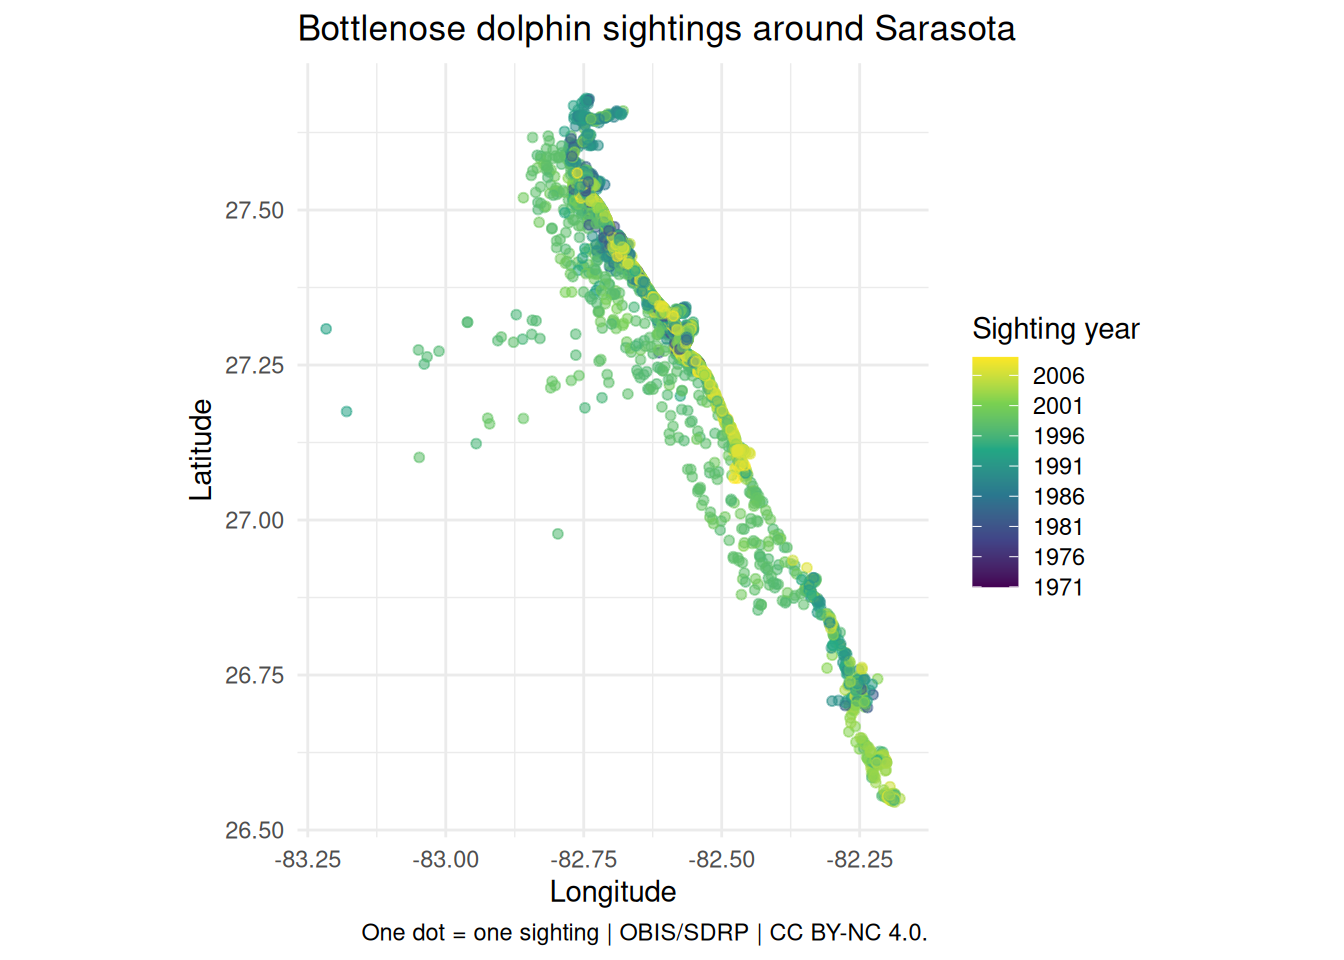
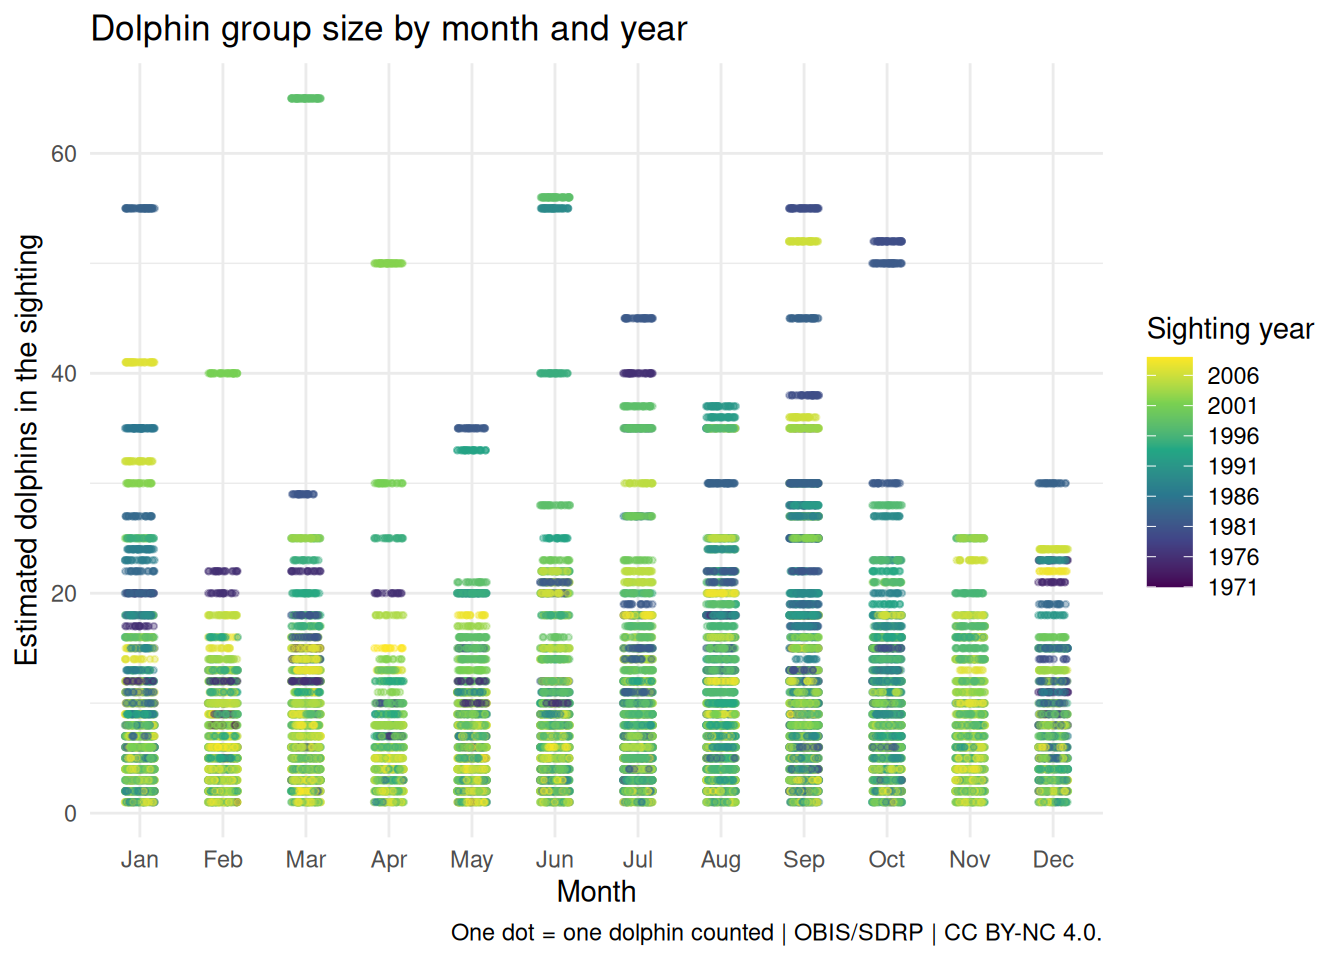
Built site for gh-pages

diff --git a/dolphin-presence.html b/dolphin-presence.html
@@ -7,7 +7,7 @@
 <meta name="viewport" content="width=device-width, initial-scale=1.0, user-scalable=yes">
 
 
-<title>Sarasota bottlenose dolphin sightings, 1971–2009 – dolphins</title>
+<title>Dolphin group size by month and year, 1971–2009 – dolphins</title>
 <style>
 /* Default styles provided by pandoc.
 ** See https://pandoc.org/MANUAL.html#variables-for-html for config info.
@@ -161,7 +161,7 @@ pre > code.sourceCode > span > a:first-child::before { text-decoration: underlin
 
 <header id="title-block-header" class="quarto-title-block default">
 <div class="quarto-title">
-<h1 class="title">Sarasota bottlenose dolphin sightings, 1971–2009</h1>
+<h1 class="title">Dolphin group size by month and year, 1971–2009</h1>
 </div>
 
 
@@ -178,7 +178,7 @@ pre > code.sourceCode > span > a:first-child::before { text-decoration: underlin
 </header>
 
 
-<p>Each dot is one recorded bottlenose dolphin sighting. The color shows the year, so the scatter plot compares where sightings were recorded over time. Dense areas show where sightings were reported, not necessarily where dolphins were most abundant; survey effort may vary by place and year.</p>
+<p>Each dot represents one dolphin counted in a recorded sighting. The x-axis shows the month, the y-axis shows the estimated number of dolphins in that dolphin’s sighting, and the color shows the year. The dots are not individually identified dolphins; survey effort may vary by month and year.</p>
 <div class="cell">
 <div class="code-copy-outer-scaffold"><div class="sourceCode cell-code" id="cb1"><pre class="sourceCode r code-with-copy"><code class="sourceCode r"><span id="cb1-1"><a href="#cb1-1" aria-hidden="true" tabindex="-1"></a><span class="fu">library</span>(tidyverse)</span></code></pre></div><button title="Copy to Clipboard" class="code-copy-button"><i class="bi"></i></button></div>
 <div class="cell-output cell-output-stderr">
@@ -221,45 +221,55 @@ pre > code.sourceCode > span > a:first-child::before { text-decoration: underlin
 <span id="cb3-26"><a href="#cb3-26" aria-hidden="true" tabindex="-1"></a></span>
 <span id="cb3-27"><a href="#cb3-27" aria-hidden="true" tabindex="-1"></a>sightings <span class="ot">&lt;-</span> purrr<span class="sc">::</span><span class="fu">map_dfr</span>(obis_data<span class="sc">$</span>results, \(record) {</span>
 <span id="cb3-28"><a href="#cb3-28" aria-hidden="true" tabindex="-1"></a>  <span class="cf">if</span> (<span class="fu">is.null</span>(record<span class="sc">$</span>eventDate) <span class="sc">||</span></span>
-<span id="cb3-29"><a href="#cb3-29" aria-hidden="true" tabindex="-1"></a>      <span class="fu">is.null</span>(record<span class="sc">$</span>decimalLongitude) <span class="sc">||</span></span>
-<span id="cb3-30"><a href="#cb3-30" aria-hidden="true" tabindex="-1"></a>      <span class="fu">is.null</span>(record<span class="sc">$</span>decimalLatitude)) {</span>
-<span id="cb3-31"><a href="#cb3-31" aria-hidden="true" tabindex="-1"></a>    <span class="fu">stop</span>(<span class="st">"An OBIS record is missing its date or coordinates."</span>)</span>
-<span id="cb3-32"><a href="#cb3-32" aria-hidden="true" tabindex="-1"></a>  }</span>
-<span id="cb3-33"><a href="#cb3-33" aria-hidden="true" tabindex="-1"></a></span>
-<span id="cb3-34"><a href="#cb3-34" aria-hidden="true" tabindex="-1"></a>  <span class="fu">tibble</span>(</span>
-<span id="cb3-35"><a href="#cb3-35" aria-hidden="true" tabindex="-1"></a>    <span class="at">sighting_date =</span> <span class="fu">as.POSIXct</span>(</span>
-<span id="cb3-36"><a href="#cb3-36" aria-hidden="true" tabindex="-1"></a>      record<span class="sc">$</span>eventDate,</span>
-<span id="cb3-37"><a href="#cb3-37" aria-hidden="true" tabindex="-1"></a>      <span class="at">format =</span> <span class="st">"%Y-%m-%dT%H:%M:%OS"</span>,</span>
-<span id="cb3-38"><a href="#cb3-38" aria-hidden="true" tabindex="-1"></a>      <span class="at">tz =</span> <span class="st">"UTC"</span></span>
-<span id="cb3-39"><a href="#cb3-39" aria-hidden="true" tabindex="-1"></a>    ),</span>
-<span id="cb3-40"><a href="#cb3-40" aria-hidden="true" tabindex="-1"></a>    <span class="at">longitude =</span> <span class="fu">as.numeric</span>(record<span class="sc">$</span>decimalLongitude),</span>
-<span id="cb3-41"><a href="#cb3-41" aria-hidden="true" tabindex="-1"></a>    <span class="at">latitude =</span> <span class="fu">as.numeric</span>(record<span class="sc">$</span>decimalLatitude)</span>
-<span id="cb3-42"><a href="#cb3-42" aria-hidden="true" tabindex="-1"></a>  )</span>
-<span id="cb3-43"><a href="#cb3-43" aria-hidden="true" tabindex="-1"></a>})</span>
-<span id="cb3-44"><a href="#cb3-44" aria-hidden="true" tabindex="-1"></a></span>
-<span id="cb3-45"><a href="#cb3-45" aria-hidden="true" tabindex="-1"></a><span class="cf">if</span> (<span class="fu">anyNA</span>(sightings)) {</span>
-<span id="cb3-46"><a href="#cb3-46" aria-hidden="true" tabindex="-1"></a>  <span class="fu">stop</span>(<span class="st">"An OBIS sighting has an invalid date or coordinate."</span>)</span>
-<span id="cb3-47"><a href="#cb3-47" aria-hidden="true" tabindex="-1"></a>}</span>
-<span id="cb3-48"><a href="#cb3-48" aria-hidden="true" tabindex="-1"></a></span>
-<span id="cb3-49"><a href="#cb3-49" aria-hidden="true" tabindex="-1"></a>sightings <span class="ot">&lt;-</span> sightings <span class="sc">|&gt;</span></span>
-<span id="cb3-50"><a href="#cb3-50" aria-hidden="true" tabindex="-1"></a>  <span class="fu">mutate</span>(<span class="at">sighting_year =</span> <span class="fu">as.integer</span>(<span class="fu">format</span>(sighting_date, <span class="st">"%Y"</span>)))</span></code></pre></div><button title="Copy to Clipboard" class="code-copy-button"><i class="bi"></i></button></div>
+<span id="cb3-29"><a href="#cb3-29" aria-hidden="true" tabindex="-1"></a>      <span class="fu">is.null</span>(record<span class="sc">$</span>individualCount)) {</span>
+<span id="cb3-30"><a href="#cb3-30" aria-hidden="true" tabindex="-1"></a>    <span class="fu">stop</span>(<span class="st">"An OBIS record is missing its date or estimated dolphin count."</span>)</span>
+<span id="cb3-31"><a href="#cb3-31" aria-hidden="true" tabindex="-1"></a>  }</span>
+<span id="cb3-32"><a href="#cb3-32" aria-hidden="true" tabindex="-1"></a></span>
+<span id="cb3-33"><a href="#cb3-33" aria-hidden="true" tabindex="-1"></a>  <span class="fu">tibble</span>(</span>
+<span id="cb3-34"><a href="#cb3-34" aria-hidden="true" tabindex="-1"></a>    <span class="at">sighting_date =</span> <span class="fu">as.POSIXct</span>(</span>
+<span id="cb3-35"><a href="#cb3-35" aria-hidden="true" tabindex="-1"></a>      record<span class="sc">$</span>eventDate,</span>
+<span id="cb3-36"><a href="#cb3-36" aria-hidden="true" tabindex="-1"></a>      <span class="at">format =</span> <span class="st">"%Y-%m-%dT%H:%M:%OS"</span>,</span>
+<span id="cb3-37"><a href="#cb3-37" aria-hidden="true" tabindex="-1"></a>      <span class="at">tz =</span> <span class="st">"UTC"</span></span>
+<span id="cb3-38"><a href="#cb3-38" aria-hidden="true" tabindex="-1"></a>    ),</span>
+<span id="cb3-39"><a href="#cb3-39" aria-hidden="true" tabindex="-1"></a>    <span class="at">dolphins =</span> <span class="fu">as.integer</span>(record<span class="sc">$</span>individualCount)</span>
+<span id="cb3-40"><a href="#cb3-40" aria-hidden="true" tabindex="-1"></a>  )</span>
+<span id="cb3-41"><a href="#cb3-41" aria-hidden="true" tabindex="-1"></a>})</span>
+<span id="cb3-42"><a href="#cb3-42" aria-hidden="true" tabindex="-1"></a></span>
+<span id="cb3-43"><a href="#cb3-43" aria-hidden="true" tabindex="-1"></a><span class="cf">if</span> (<span class="fu">anyNA</span>(sightings)) {</span>
+<span id="cb3-44"><a href="#cb3-44" aria-hidden="true" tabindex="-1"></a>  <span class="fu">stop</span>(<span class="st">"An OBIS sighting has an invalid date or dolphin count."</span>)</span>
+<span id="cb3-45"><a href="#cb3-45" aria-hidden="true" tabindex="-1"></a>}</span>
+<span id="cb3-46"><a href="#cb3-46" aria-hidden="true" tabindex="-1"></a></span>
+<span id="cb3-47"><a href="#cb3-47" aria-hidden="true" tabindex="-1"></a>sightings <span class="ot">&lt;-</span> sightings <span class="sc">|&gt;</span></span>
+<span id="cb3-48"><a href="#cb3-48" aria-hidden="true" tabindex="-1"></a>  <span class="fu">mutate</span>(</span>
+<span id="cb3-49"><a href="#cb3-49" aria-hidden="true" tabindex="-1"></a>    <span class="at">sighting_year =</span> <span class="fu">as.integer</span>(<span class="fu">format</span>(sighting_date, <span class="st">"%Y"</span>)),</span>
+<span id="cb3-50"><a href="#cb3-50" aria-hidden="true" tabindex="-1"></a>    <span class="at">month =</span> <span class="fu">factor</span>(</span>
+<span id="cb3-51"><a href="#cb3-51" aria-hidden="true" tabindex="-1"></a>      <span class="fu">format</span>(sighting_date, <span class="st">"%b"</span>),</span>
+<span id="cb3-52"><a href="#cb3-52" aria-hidden="true" tabindex="-1"></a>      <span class="at">levels =</span> month.abb</span>
+<span id="cb3-53"><a href="#cb3-53" aria-hidden="true" tabindex="-1"></a>    )</span>
+<span id="cb3-54"><a href="#cb3-54" aria-hidden="true" tabindex="-1"></a>  )</span></code></pre></div><button title="Copy to Clipboard" class="code-copy-button"><i class="bi"></i></button></div>
 </div>
-<p>The plot includes <strong>6,391</strong> sightings from <strong>1971</strong> to <strong>2009</strong>.</p>
+<p>The plot includes <strong>6,391</strong> sightings and <strong>30,980</strong> counted dolphins from <strong>1971</strong> to <strong>2009</strong>.</p>
 <div class="cell">
-<div class="code-copy-outer-scaffold"><div class="sourceCode cell-code" id="cb4"><pre class="sourceCode r code-with-copy"><code class="sourceCode r"><span id="cb4-1"><a href="#cb4-1" aria-hidden="true" tabindex="-1"></a><span class="fu">ggplot</span>(</span>
-<span id="cb4-2"><a href="#cb4-2" aria-hidden="true" tabindex="-1"></a>  sightings,</span>
-<span id="cb4-3"><a href="#cb4-3" aria-hidden="true" tabindex="-1"></a>  <span class="fu">aes</span>(<span class="at">x =</span> longitude, <span class="at">y =</span> latitude, <span class="at">color =</span> sighting_year)</span>
-<span id="cb4-4"><a href="#cb4-4" aria-hidden="true" tabindex="-1"></a>) <span class="sc">+</span></span>
-<span id="cb4-5"><a href="#cb4-5" aria-hidden="true" tabindex="-1"></a>  <span class="fu">geom_point</span>(<span class="at">alpha =</span> <span class="fl">0.55</span>, <span class="at">size =</span> <span class="fl">1.4</span>) <span class="sc">+</span></span>
-<span id="cb4-6"><a href="#cb4-6" aria-hidden="true" tabindex="-1"></a>  <span class="fu">coord_quickmap</span>() <span class="sc">+</span></span>
-<span id="cb4-7"><a href="#cb4-7" aria-hidden="true" tabindex="-1"></a>  <span class="fu">scale_color_viridis_c</span>(<span class="at">name =</span> <span class="st">"Sighting year"</span>, <span class="at">breaks =</span> <span class="fu">seq</span>(<span class="dv">1971</span>, <span class="dv">2009</span>, <span class="at">by =</span> <span class="dv">5</span>)) <span class="sc">+</span></span>
-<span id="cb4-8"><a href="#cb4-8" aria-hidden="true" tabindex="-1"></a>  <span class="fu">labs</span>(</span>
-<span id="cb4-9"><a href="#cb4-9" aria-hidden="true" tabindex="-1"></a>    <span class="at">title =</span> <span class="st">"Bottlenose dolphin sightings around Sarasota"</span>,</span>
-<span id="cb4-10"><a href="#cb4-10" aria-hidden="true" tabindex="-1"></a>    <span class="at">x =</span> <span class="st">"Longitude"</span>,</span>
-<span id="cb4-11"><a href="#cb4-11" aria-hidden="true" tabindex="-1"></a>    <span class="at">y =</span> <span class="st">"Latitude"</span>,</span>
-<span id="cb4-12"><a href="#cb4-12" aria-hidden="true" tabindex="-1"></a>    <span class="at">caption =</span> <span class="st">"One dot = one sighting | OBIS/SDRP | CC BY-NC 4.0."</span></span>
-<span id="cb4-13"><a href="#cb4-13" aria-hidden="true" tabindex="-1"></a>  ) <span class="sc">+</span></span>
-<span id="cb4-14"><a href="#cb4-14" aria-hidden="true" tabindex="-1"></a>  <span class="fu">theme_minimal</span>()</span></code></pre></div><button title="Copy to Clipboard" class="code-copy-button"><i class="bi"></i></button></div>
+<div class="code-copy-outer-scaffold"><div class="sourceCode cell-code" id="cb4"><pre class="sourceCode r code-with-copy"><code class="sourceCode r"><span id="cb4-1"><a href="#cb4-1" aria-hidden="true" tabindex="-1"></a>dolphin_dots <span class="ot">&lt;-</span> sightings <span class="sc">|&gt;</span></span>
+<span id="cb4-2"><a href="#cb4-2" aria-hidden="true" tabindex="-1"></a>  tidyr<span class="sc">::</span><span class="fu">uncount</span>(dolphins, <span class="at">.id =</span> <span class="st">"dolphin_in_sighting"</span>, <span class="at">.remove =</span> <span class="cn">FALSE</span>)</span>
+<span id="cb4-3"><a href="#cb4-3" aria-hidden="true" tabindex="-1"></a></span>
+<span id="cb4-4"><a href="#cb4-4" aria-hidden="true" tabindex="-1"></a><span class="fu">ggplot</span>(</span>
+<span id="cb4-5"><a href="#cb4-5" aria-hidden="true" tabindex="-1"></a>  dolphin_dots,</span>
+<span id="cb4-6"><a href="#cb4-6" aria-hidden="true" tabindex="-1"></a>  <span class="fu">aes</span>(<span class="at">x =</span> month, <span class="at">y =</span> dolphins, <span class="at">color =</span> sighting_year)</span>
+<span id="cb4-7"><a href="#cb4-7" aria-hidden="true" tabindex="-1"></a>) <span class="sc">+</span></span>
+<span id="cb4-8"><a href="#cb4-8" aria-hidden="true" tabindex="-1"></a>  <span class="fu">geom_point</span>(</span>
+<span id="cb4-9"><a href="#cb4-9" aria-hidden="true" tabindex="-1"></a>    <span class="at">position =</span> <span class="fu">position_jitter</span>(<span class="at">width =</span> <span class="fl">0.18</span>, <span class="at">height =</span> <span class="dv">0</span>, <span class="at">seed =</span> <span class="dv">1</span>),</span>
+<span id="cb4-10"><a href="#cb4-10" aria-hidden="true" tabindex="-1"></a>    <span class="at">alpha =</span> <span class="fl">0.4</span>,</span>
+<span id="cb4-11"><a href="#cb4-11" aria-hidden="true" tabindex="-1"></a>    <span class="at">size =</span> <span class="fl">0.8</span></span>
+<span id="cb4-12"><a href="#cb4-12" aria-hidden="true" tabindex="-1"></a>  ) <span class="sc">+</span></span>
+<span id="cb4-13"><a href="#cb4-13" aria-hidden="true" tabindex="-1"></a>  <span class="fu">scale_color_viridis_c</span>(<span class="at">name =</span> <span class="st">"Sighting year"</span>, <span class="at">breaks =</span> <span class="fu">seq</span>(<span class="dv">1971</span>, <span class="dv">2009</span>, <span class="at">by =</span> <span class="dv">5</span>)) <span class="sc">+</span></span>
+<span id="cb4-14"><a href="#cb4-14" aria-hidden="true" tabindex="-1"></a>  <span class="fu">labs</span>(</span>
+<span id="cb4-15"><a href="#cb4-15" aria-hidden="true" tabindex="-1"></a>    <span class="at">title =</span> <span class="st">"Dolphin group size by month and year"</span>,</span>
+<span id="cb4-16"><a href="#cb4-16" aria-hidden="true" tabindex="-1"></a>    <span class="at">x =</span> <span class="st">"Month"</span>,</span>
+<span id="cb4-17"><a href="#cb4-17" aria-hidden="true" tabindex="-1"></a>    <span class="at">y =</span> <span class="st">"Estimated dolphins in the sighting"</span>,</span>
+<span id="cb4-18"><a href="#cb4-18" aria-hidden="true" tabindex="-1"></a>    <span class="at">caption =</span> <span class="st">"One dot = one dolphin counted | OBIS/SDRP | CC BY-NC 4.0."</span></span>
+<span id="cb4-19"><a href="#cb4-19" aria-hidden="true" tabindex="-1"></a>  ) <span class="sc">+</span></span>
+<span id="cb4-20"><a href="#cb4-20" aria-hidden="true" tabindex="-1"></a>  <span class="fu">theme_minimal</span>()</span></code></pre></div><button title="Copy to Clipboard" class="code-copy-button"><i class="bi"></i></button></div>
 <div class="cell-output-display">
 <div>
 <figure class="figure">
@@ -346,7 +356,7 @@ pre > code.sourceCode > span > a:first-child::before { text-decoration: underlin
     }
       var localhostRegex = new RegExp(/^(?:http|https):\/\/localhost\:?[0-9]*\//);
       var mailtoRegex = new RegExp(/^mailto:/);
-        var filterRegex = new RegExp('/' + window.location.host + '/');
+        var filterRegex = new RegExp("https:\/\/carlyjones1018\.github\.io\/milestone-5\/");
       var isInternal = (href) => {
           return filterRegex.test(href) || localhostRegex.test(href) || mailtoRegex.test(href);
       }

diff --git a/about.html b/about.html
@@ -221,7 +221,7 @@ ul.task-list li input[type="checkbox"] {
     }
       var localhostRegex = new RegExp(/^(?:http|https):\/\/localhost\:?[0-9]*\//);
       var mailtoRegex = new RegExp(/^mailto:/);
-        var filterRegex = new RegExp('/' + window.location.host + '/');
+        var filterRegex = new RegExp("https:\/\/carlyjones1018\.github\.io\/milestone-5\/");
       var isInternal = (href) => {
           return filterRegex.test(href) || localhostRegex.test(href) || mailtoRegex.test(href);
       }

diff --git a/index.html b/index.html
@@ -222,7 +222,7 @@ ul.task-list li input[type="checkbox"] {
     }
       var localhostRegex = new RegExp(/^(?:http|https):\/\/localhost\:?[0-9]*\//);
       var mailtoRegex = new RegExp(/^mailto:/);
-        var filterRegex = new RegExp('/' + window.location.host + '/');
+        var filterRegex = new RegExp("https:\/\/carlyjones1018\.github\.io\/milestone-5\/");
       var isInternal = (href) => {
           return filterRegex.test(href) || localhostRegex.test(href) || mailtoRegex.test(href);
       }
